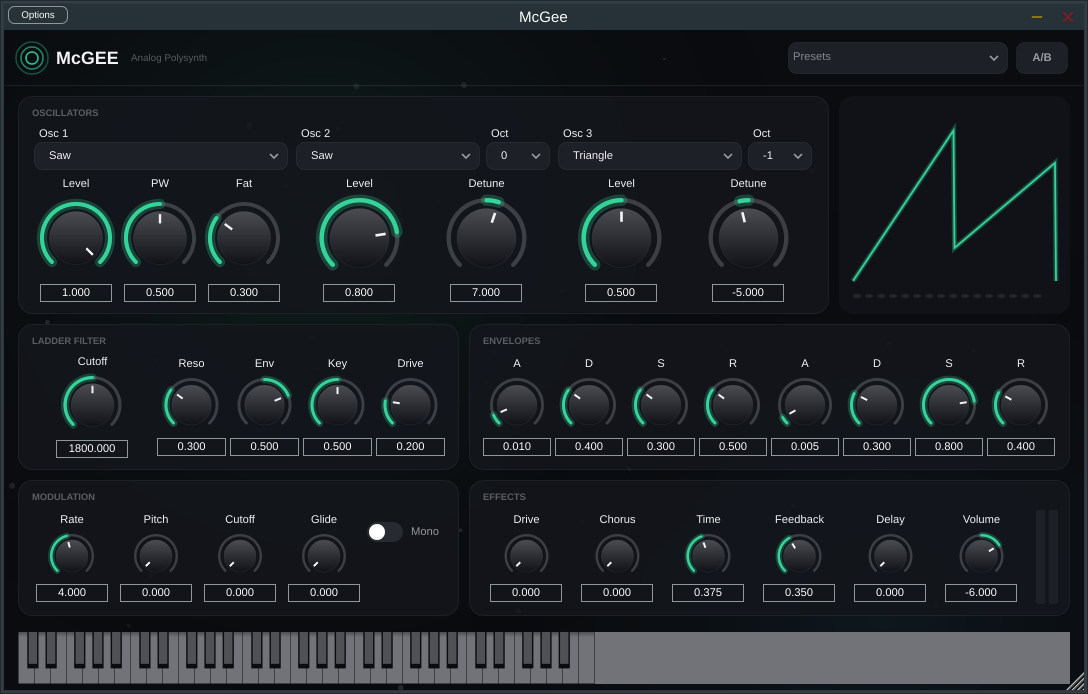
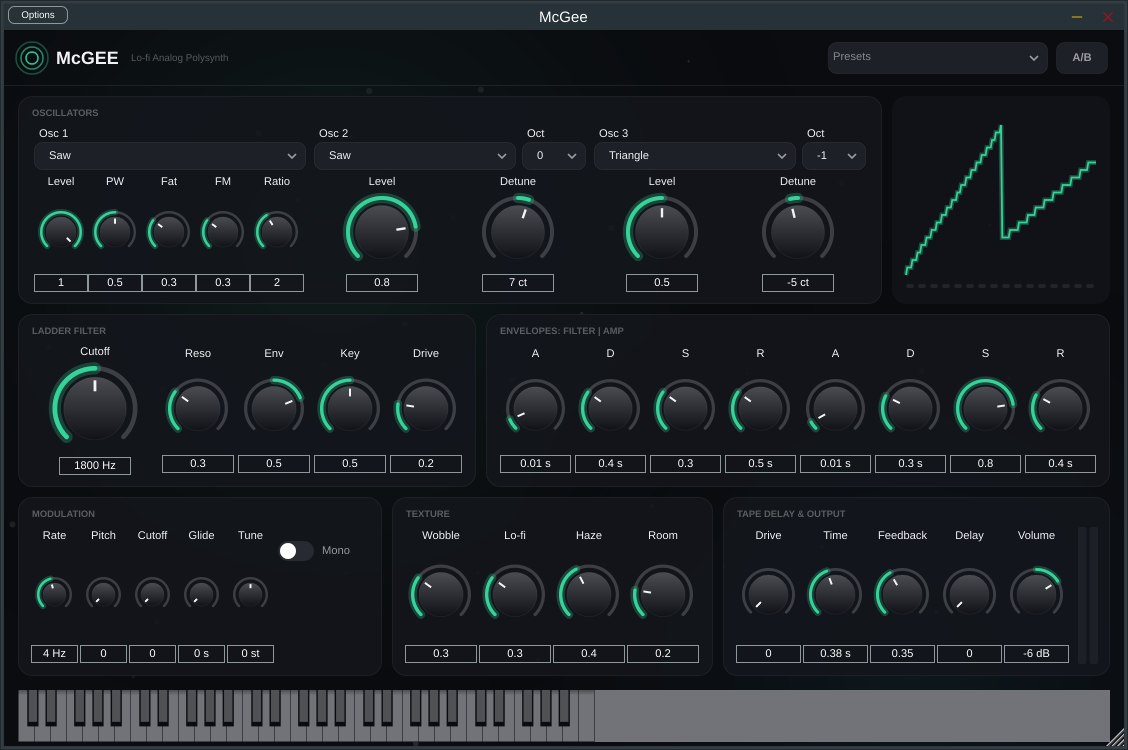
McGEE UI fixes, unit-aware value readouts, docs for lo-fi direction and install path
Claude-Session: https://claude.ai/code/session_01XJvd27NxcF2Lvy4RJRC2BE

diff --git a/Shared/UI/Components.h b/Shared/UI/Components.h
@@ -27,7 +27,19 @@ public:
         addAndMakeVisible (label);
         attachment = std::make_unique<APVTS::SliderAttachment> (state, paramID, slider);
         if (auto* p = state.getParameter (paramID))
+        {
             slider.setDoubleClickReturnValue (true, p->convertFrom0to1 (p->getDefaultValue()));
+            // Clean value readout: up to 2 decimals, trailing zeros stripped, unit appended ("2.5 s", "60 %", "1800 Hz")
+            juce::String unit = p->getLabel();
+            slider.textFromValueFunction = [unit] (double v)
+            {
+                juce::String t (v, 2);
+                if (t.containsChar ('.')) t = t.trimCharactersAtEnd ("0").trimCharactersAtEnd (".");
+                if (t == "-0") t = "0";
+                return unit.isNotEmpty() ? t + " " + unit : t;
+            };
+            slider.updateText();
+        }
     }
 
     void resized() override

diff --git a/Plugins/McGee/Source/PluginEditor.h b/Plugins/McGee/Source/PluginEditor.h
@@ -58,7 +58,7 @@ private:
     polar::LookAndFeel lnf { theme };
     polar::Backdrop backdrop { theme, &proc.energy };
     polar::Header header { theme, "McGEE", "Lo-fi Analog Polysynth" };
-    polar::Panel oscPanel { theme, "Oscillators" }, filterPanel { theme, "Ladder Filter" }, envPanel { theme, "Envelopes  ·  filter / amp" },
+    polar::Panel oscPanel { theme, "Oscillators" }, filterPanel { theme, "Ladder Filter" }, envPanel { theme, "Envelopes: filter | amp" },
                  modPanel { theme, "Modulation" }, texturePanel { theme, "Texture" }, fxPanel { theme, "Tape Delay & Output" };
     McGeeScope scope { proc, theme };
     polar::Choice w1 { proc.apvts, ID::osc1Wave, "Osc 1" }, w2 { proc.apvts, ID::osc2Wave, "Osc 2" }, w3 { proc.apvts, ID::osc3Wave, "Osc 3" },

diff --git a/Plugins/McGee/Source/PluginEditor.cpp b/Plugins/McGee/Source/PluginEditor.cpp
@@ -82,7 +82,7 @@ void McGeeEditor::resized()
     texturePanel.setBounds (r.removeFromLeft ((int) (w3 * 0.30f))); r.removeFromLeft (gap);
     fxPanel.setBounds (r);
     auto mc = modPanel.content().translated (modPanel.getX(), modPanel.getY());
-    auto monoArea = mc.removeFromRight (70);
+    auto monoArea = mc.removeFromRight (92);
     mono.setBounds (monoArea.removeFromTop (24).translated (0, 12));
     int mw = mc.getWidth() / 5;
     for (auto* k : { &lfoRate, &lfoPitch, &lfoCutoff, &glide, &tune }) k->setBounds (mc.removeFromLeft (mw).reduced (1));

diff --git a/Marketing/MARKET_ANALYSIS.md b/Marketing/MARKET_ANALYSIS.md
@@ -41,7 +41,7 @@ What is sold today (Coresound, That Worship Sound, Worship Start, Sunday Sounds,
 
 ## 4. The synth
 
-The brief asked for a "McGee"-style analog synth. McGEE is positioned as the *vibe synth*: 3 PolyBLEP oscillators, a Moog-style 4-pole transistor-ladder model with drive, 16 voices, unison "Fat", chorus and delay built in, and worship-ready presets so it cross-sells into the SANCTUARY audience. Priced as a flagship instrument ($99–$129); it anchors the bundle.
+The brief asked for a synth built around the Mk.gee texture — the "underwater", 12-bit, cassette-warped palette of recent indie/alt-R&B production (the artist has said he grew up on low-bit MP3s and likes "underwater-sounding things"; third-party tone guides reverse-engineer the chain as pitch-drop → cassette wow/flutter → vibrato/slow chorus → short dirty gated reverb). That palette is in demand (lo-fi/"tape" plugins are a growth category: RC-20, Sketch Cassette, Chow Tape) but nobody sells it *inside a synth*. McGEE is the synth plus that whole chain in one window: alias-free analog oscillators + FM keys, a transistor ladder, then Wobble / Lo-fi / Haze / Room / tape delay. Priced as a flagship instrument ($99–$129). Marketing describes the texture ("underwater", "cassette", "12-bit"); it never implies artist endorsement.
 
 ## 5. Pricing & bundle strategy
 
@@ -63,4 +63,5 @@ Rationale: intro prices sit under the Valhalla/Soundtoys psychological ceilings,
 - Dubspot, [Best Effect Plugins (2026)](https://blog.dubspot.com/plugins/best/effect)
 - Market sizing: [HTF Market Intelligence](https://www.htfmarketintelligence.com/report/global-audio-plugins-market), [Dataintelo](https://dataintelo.com/report/audio-plugins-market), [MarketIntelo](https://marketintelo.com/report/audio-plugins-market)
 - Worship vendors: [Coresound Worship Pads Vol. 1](https://www.multitracks.com/sounds/coresound/worship-pads-vol.-1-mainstage/) · [Pads Toolkit](https://www.multitracks.com/sounds/Coresound/Pads-Toolkit/) · [That Worship Sound — Drone Tools 2](https://thatworshipsound.com/shop/bundles/drone-tools-2/) · [Worship Pads for Logic & MainStage](https://thatworshipsound.com/shop/bundles/worship-pads-for-logic-pro-mainstage/) · [Worship Start — Motion Pads](https://www.worshipstart.com/motion-pads) · [Worship Keys Standard](https://www.worshipstart.com/most-popular-2/p/worship-keys-standard-edition-32adl) · [Sunday Sounds PLUTO-60](https://sundaysounds.com/products/pluto-60-synth-pads) · [Infinite Worship Sounds](https://infiniteworshipsounds.site123.me/) · [Worship Pads Pro (iOS)](https://apps.apple.com/us/app/id1586199401)
+- Mk.gee sound context: [MusicRadar — "underwater-sounding things … 12-bit music"](https://www.musicradar.com/artists/singers-songwriters/thats-probably-why-i-like-underwater-sounding-things-because-i-grew-up-on-12-bit-music-mkgee-suggests-that-his-unique-lo-fi-sound-is-the-result-of-being-exposed-to-low-quality-mp3s-in-the-early-days-of-file-sharing) · [Dazed interview](https://www.dazeddigital.com/music/article/64551/1/mk-gee-michael-gordon-interview-autumn-2024-issue-dazed) · [GearNews tone guide](https://www.gearnews.com/the-mk-gee-guitar-tone-perfect-match/) · [Northern Valley Audio chain](https://www.northernvalleyaudio.com/blog/modern-indie-guitar-tone-settings) · [Guitar World — Andrew Aged](https://www.guitarworld.com/artists/guitarists/andrew-aged-mkgee-interview)
 - Church DAW context: [Why All Church Musicians Should Use Ableton Live](https://mkbaileymusic.com/blog/why-all-church-musicians-should-use-ableton-live) · [Logic Pro vs Ableton Live 2026](https://www.editorskeys.com/blogs/news/logic-pro-vs-ableton-live-which-daw-should-you-choose-in-2026)

diff --git a/README.md b/README.md
@@ -4,20 +4,26 @@
 |---|---|---|---|
 | 🔵 | **AURA** | Audio Unit effect | Algorithmic reverb: 8-line modulated FDN, 4 colour circuits (Modern / Vintage / Dark / Plate), shimmer, freeze, ducking, width |
 | 🟠 | **GLOW** | Audio Unit effect | 4× oversampled saturation: Tube / Tape / Transformer / Crunch circuits, 3-band Focus, Dynamics, tilt Tone, auto-gain |
-| 🟢 | **McGEE** | Audio Unit instrument | 16-voice analog-style polysynth: 3 PolyBLEP oscillators, Moog-style ladder filter with drive, 2 ADSRs, LFO, glide/mono, unison Fat, chorus, delay |
+| 🟢 | **McGEE** | Audio Unit instrument | Lo-fi analog polysynth built for the "underwater" Mk.gee-style texture: 3 alias-free oscillators (+ FM Keys), transistor-ladder filter with drive, 16 voices, unison Fat, then a Texture stage — cassette **Wobble** (wow & flutter), **Lo-fi** (12-bit / sample-rate crunch, muffle, tape saturation, hiss), **Haze** chorus, dirty gated **Room**, modulated tape delay. Sustain pedal + pitch bend. |
 | 🟣 | **SANCTUARY** | Audio Unit instrument | Live worship pad engine: generated pads in any key, major/minor, 5 styles, seamless key crossfade, MIDI key switching, mod-wheel swell, one-tap fade, bar-synced motion, AURA reverb built in |
 
 All four share one design system (`Shared/UI`): dark-glass panels, glowing rotary arcs, iOS-style switches, a reactive particle/aurora backdrop, factory + user presets, A/B, resizable windows with locked aspect ratio.
 
 Market reasoning: [`Marketing/MARKET_ANALYSIS.md`](Marketing/MARKET_ANALYSIS.md). Launch plan: [`Marketing/MARKETING.md`](Marketing/MARKETING.md).
 
-## Build for Logic Pro (macOS)
+## Install in Logic Pro (no build needed)
+
+Every push to `main` builds the Audio Units on a macOS runner and runs Apple's `auval` on them. Grab the latest
+**PolarAudio-macOS.zip** from the repo's *Actions → latest run → Artifacts* (or from *Releases* for tagged versions), unzip,
+double-click **Install Polar Plugins.command**, open Logic. Details in `Installer/INSTALL.txt`.
+
+## Build for Logic Pro yourself (macOS)
 
 Logic loads **Audio Units**. AU can only be compiled on macOS with Xcode; this repo is set up so that is a three-command job.
 
 ```bash
 # prerequisites: Xcode 15+, CMake 3.22+ (brew install cmake)
-git clone --depth 1 --branch 8.0.4 https://github.com/juce-framework/JUCE.git ../JUCE   # JUCE must sit next to this folder
+# JUCE is fetched automatically by CMake (or put a checkout at ../JUCE to reuse one)
 cmake -B build -G Xcode -DPOLAR_BUILD_TESTS=OFF
 cmake --build build --config Release
 ```

diff --git a/Marketing/MARKETING.md b/Marketing/MARKETING.md
@@ -8,7 +8,7 @@
 |---|---|---|---|
 | **AURA** | Electric blue | The reverb that makes everything sound expensive. | 8-line modulated FDN with four colour circuits, true shimmer, and built-in ducking. |
 | **GLOW** | Amber | Four analog circuits. One knob to taste. | Tube / Tape / Transformer / Crunch modelled as *different* nonlinearities, 4× oversampled, with Focus to aim the colour. |
-| **McGEE** | Mint | The polysynth with the ladder in it. | 3 alias-free oscillators into a 4-pole transistor ladder with drive, 16 voices, unison Fat, chorus + delay. |
+| **McGEE** | Mint | The underwater synth. | Alias-free analog oscillators and a transistor ladder, then the texture stage the lo-fi records actually use: cassette wow & flutter, 12-bit crunch, muffle, tape saturation, haze chorus, a dirty gated room. One screen, one vibe. |
 | **SANCTUARY** | Lavender | Pads in every key. Change key without a gap. | The first *instrument* for worship pads inside Logic: infinite sustain, seamless key crossfade, mod-wheel swell, one-tap fade. |
 
 ## Launch sequence (90 days)
@@ -19,7 +19,7 @@
 
 **Week 5 — AURA + GLOW together** as "The Mix Pair", with a 14-day trial and a $79 pair price. These are the volume products; marketing is 100 % audio demos: vocal, drum bus, piano, synth pad, 15 s each, dry → wet, captioned.
 
-**Week 8 — McGEE** with a free preset pack by a known worship/pop sound designer, and a "designed in McGEE" playlist.
+**Week 8 — McGEE** aimed at the indie / bedroom-pop / alt-R&B producer who wants the Mk.gee-adjacent "underwater" palette without a cassette deck. Launch with 20-second "one knob" shorts (Wobble, Lo-fi, Room) — the texture controls demo themselves. Describe the sound, never claim artist endorsement: "lo-fi cassette texture", "underwater keys", not a name.
 
 **Week 10 — Polar Collection bundle** at $149 intro, Black-Friday-adjacent.
 
